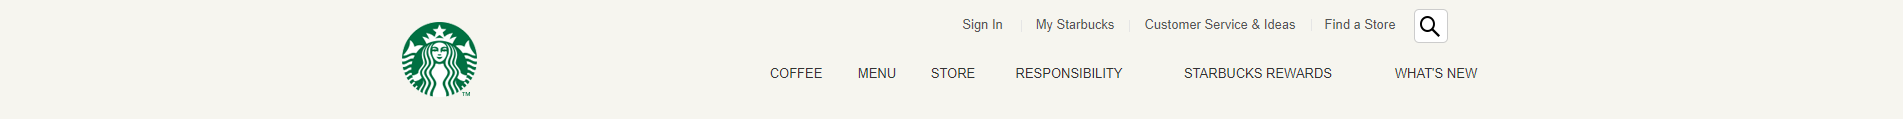
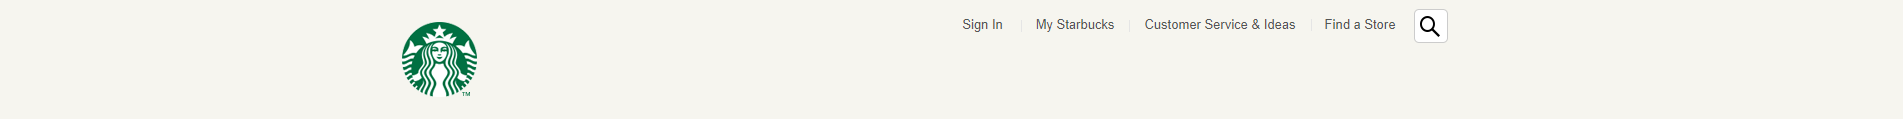
Header

Changed region(s): [[0.403, 0.5546, 0.5891, 0.6555], [0.6201, 0.5546, 0.7751, 0.6555]]

diff --git a/src/App.tsx b/src/App.tsx
@@ -1,11 +1,158 @@
-import React from 'react';
+import React, { useState } from 'react';
 import './App.css';
 import './reset.css';
 
+function HdCoffee(){
+  console.log('hdcoffee');
+  return(
+    <div className='HdCoffee'>
+      <ul>
+        <li>
+          <ul className='item'>
+            <li><a href="#0"><h2>커피</h2></a></li>
+            <li><a href="#0">스타벅스 원두</a></li>
+            <li><a href="#0">스타벅스 원두</a></li>
+            <li><a href="#0">스타벅스 원두</a></li>
+          </ul>
+        </li>
+
+        <li>
+          <ul className='item'>
+            <li><h2>나와 어울리는 커피</h2></li>
+            <li>스타벅스 원두</li>
+            <li>스타벅스 원두</li>
+            <li>스타벅스 원두</li>
+          </ul>
+        </li>
+
+        <li>
+          <ul className='item'>
+            <li><h2>커피333</h2></li>
+            <li>스타벅스 원두</li>
+            <li>스타벅스 원두</li>
+            <li>스타벅스 원두</li>
+          </ul>
+        </li>
+
+        <li>
+          <ul className='item'>
+            <li><h2>커피444</h2></li>
+            <li>스타벅스 원두</li>
+            <li>스타벅스 원두</li>
+            <li>스타벅스 원두</li>
+          </ul>
+        </li>
+
+        <li>
+          <ul className='item'>
+            <li><h2>커피555</h2></li>
+            <li>스타벅스 원두</li>
+            <li>스타벅스 원두</li>
+            <li>스타벅스 원두</li>
+          </ul>
+        </li>
+
+        <li>
+          <ul className='item'>
+            <li><h2>커피666</h2></li>
+            <li>스타벅스 원두</li>
+            <li>스타벅스 원두</li>
+            <li>스타벅스 원두</li>
+          </ul>
+        </li>
+      </ul>
+    </div>
+  );
+}
+
+function HdMenu(){
+  console.log('hdmenu');
+  return(
+    <div className='HdMenu'>
+
+    </div>
+  );
+}
+
+function HdStore(){
+  return(
+    <div className='HdStore'>
+
+    </div>
+  );
+}
+
+function HdResponsibility(){
+  return(
+    <div className='HdResponsibility'>
+
+    </div>
+  );
+}
+
+function HdStarbuckRewards(){
+  return(
+    <div  className='HdStarbuckRewards'>
+
+    </div>
+  );
+}
+
+function HdWhatsNew(){
+  return(
+    <div  className='HdWhatsNew'>
+
+    </div>
+  );
+}
+
 function Header(){
+  const [selected, setSelected] = useState(-1);
   return (
     <header>
-      <img src="./header.png" alt="header" />
+
+      <div className='header' onMouseLeave={()=>{
+        setSelected(-1);
+      }}>
+        <img src="./header.png" alt="header" />
+        <div className='nav'>
+          <ul className="header_ul">
+            <li onMouseOver={()=>{
+              console.log('coffee click');
+              setSelected(0);
+            }}>COFFEE</li>
+            <li onMouseOver={()=>{
+              console.log('menu click');
+              setSelected(1);
+            }}>MENU</li>
+            <li onMouseOver={()=>{
+              console.log('store click');
+              setSelected(2);
+            }}>STORE</li>
+            <li onMouseOver={()=>{
+              console.log('responsibility click');
+              setSelected(3);
+            }}>RESPONSIBILITY</li>
+            <li onMouseOver={()=>{
+              console.log('starbucks rewards click');
+              setSelected(4);
+            }}>STARBUCKS REWARDS</li>
+            <li onMouseOver={()=>{
+              console.log('whats new click');
+              setSelected(5);
+            }}>WHAT'S NEW</li>
+          </ul>
+        </div>
+
+        <div className='subNav'>
+        {(selected === 0) && <HdCoffee />}
+          {(selected === 1) && <HdMenu />}
+          {(selected === 2) && <HdStore />}
+          {(selected === 3) && <HdResponsibility />}
+          {(selected === 4) && <HdStarbuckRewards />}
+          {(selected === 5) && <HdWhatsNew />}
+        </div>
+      </div>
     </header>
   );
 }
@@ -13,7 +160,9 @@ function Header(){
 function Main(){
   return(
     <section>
-      <img src="./main.png" alt="main" />
+      <div className='Main'>
+        <img src="./main.png" alt="main" />
+      </div>
     </section>
   )
 }

diff --git a/src/App.css b/src/App.css
@@ -24,15 +24,116 @@ img{
   }
 }
 
-.App-header {
-  background-color: #282c34;
-  min-height: 100vh;
+.header{
+  position: relative;
+}
+
+.nav{
+  display: flex;
+  position: absolute;
+  top: 45px;
+  right: 130px;
+}
+
+.header_ul{
+  display: flex;
+  font-size: 13px;
+}
+
+.header_ul li{
+  padding: 20px 28px;
+}
+
+.header_ul li:hover{
+  color: #669900;
+  background-color: #2C2A29;
+  text-decoration: underline;
+}
+
+.subNav{
+  position: absolute;
+  top: 100px;
+  z-index: 100;
+}
+
+.HdCoffee{
+  width: 100vw;
+  height: 500px;
+  padding: 20px 0;
+  color: white;
+  background-color: #2C2A29;
+}
+
+.HdCoffee ul{
+  display: flex;
+  flex-flow: wrap;
+  width: 1100px;
+  margin: 0 auto;
+}
+
+.HdCoffee ul>li{
+  width: 220px;
+}
+
+.HdCoffee .item{
   display: flex;
   flex-direction: column;
-  align-items: center;
-  justify-content: center;
-  font-size: calc(10px + 2vmin);
+  text-align: left;
+  margin: 20px 0;
+  color: #999;
+  font-size: 12px;
+}
+
+.HdCoffee .item h2{
   color: white;
+  font-size: 14px;
+}
+
+.HdCoffee .item h2:hover, .HdCoffee .item li:hover{
+  text-decoration: underline;
+  cursor: pointer;
+}
+
+.HdCoffee .item a{
+  color: #999;
+  text-decoration: none;
+}
+
+.HdCoffee .item li{
+  margin: 5px 0;
+}
+.HdMenu{
+  width: 100vw;
+  height: 400px;
+  background-color: #2C2A29;
+}
+
+.HdStore{  
+  width: 100vw;
+  height: 300px;
+  background-color: #2C2A29;
+}
+
+.HdResponsibility{
+  width: 100vw;
+  height: 400px;
+  background-color: #2C2A29;
+}
+
+.HdStarbuckRewards{
+  width: 100vw;
+  height: 500px;
+  background-color: #2C2A29;
+}
+
+.HdWhatsNew{
+  width: 100vw;
+  height: 600px;
+  background-color: #2C2A29;
+}
+
+.Main{
+  position: relative;
 }
 
 .App-link {
